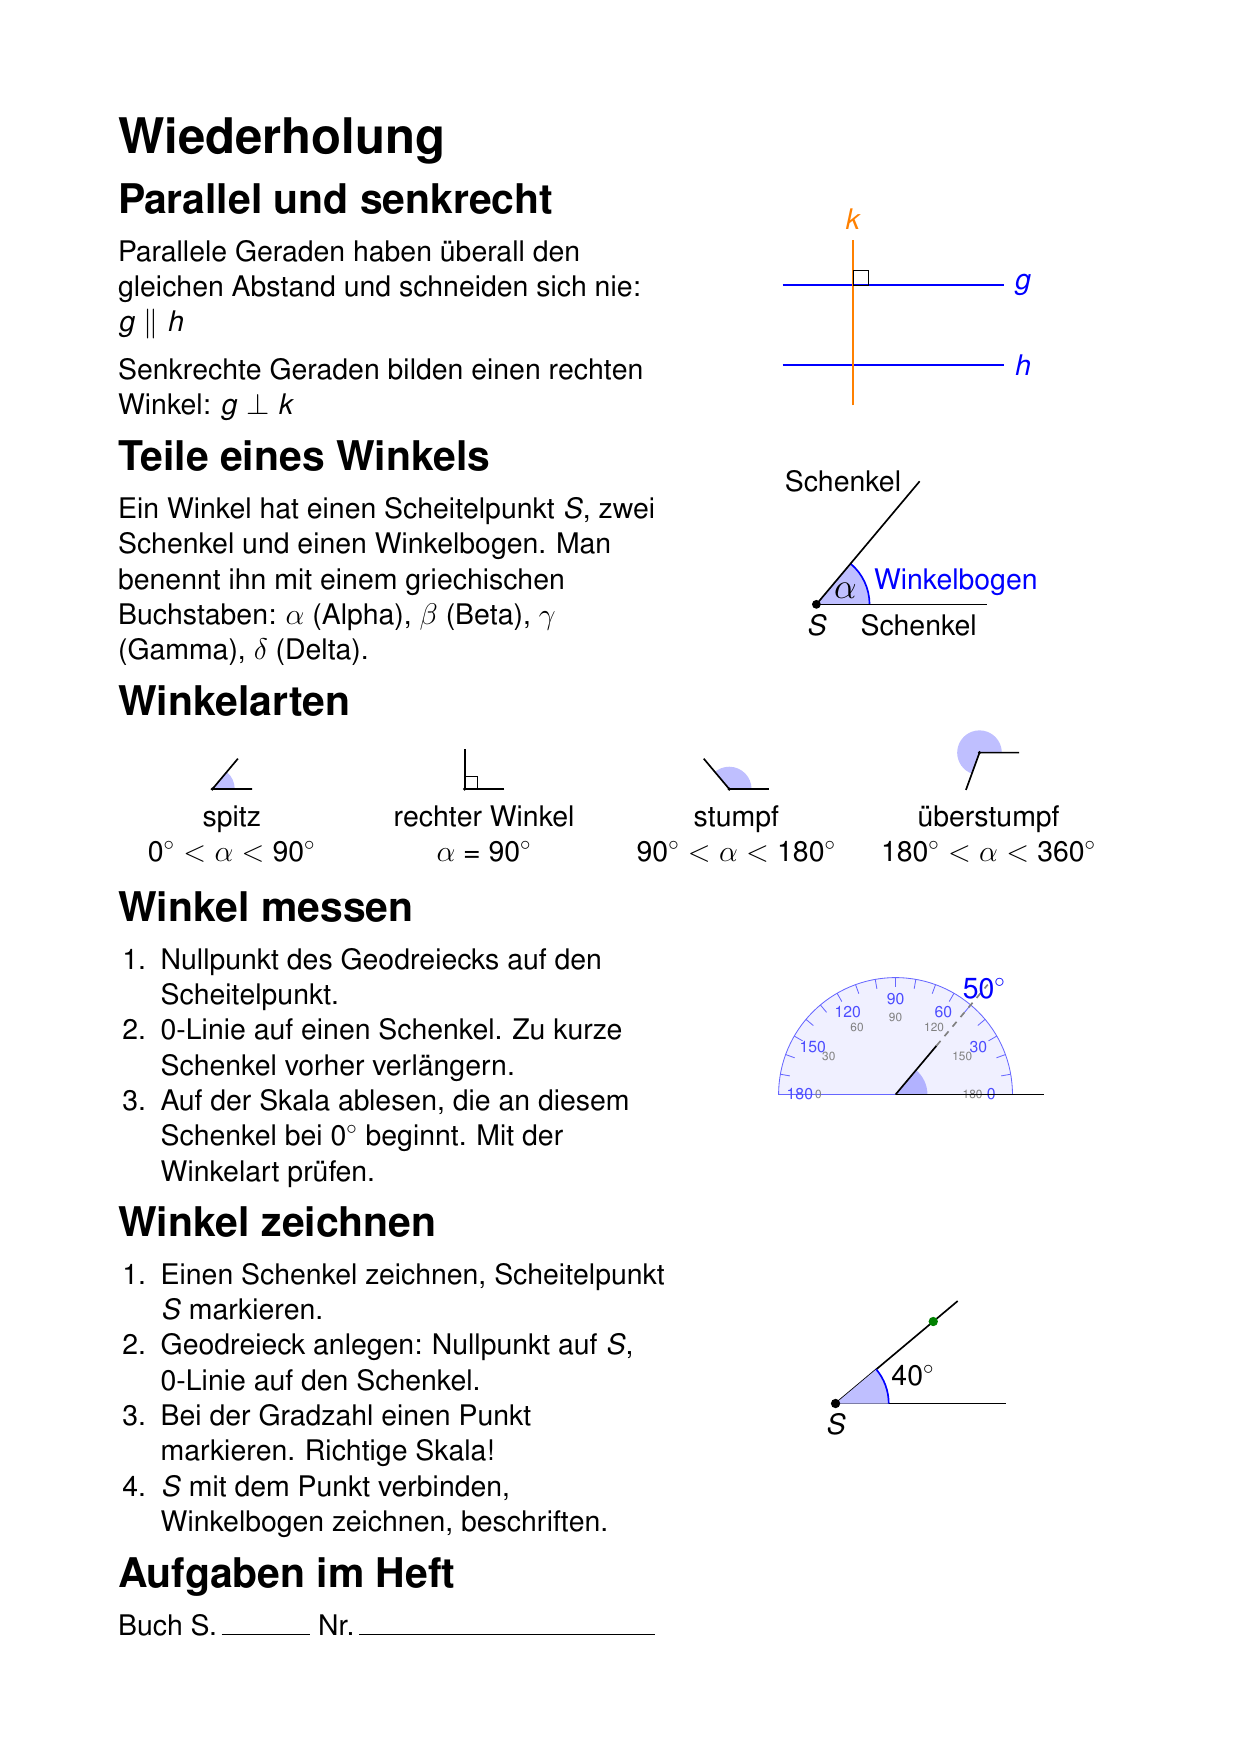
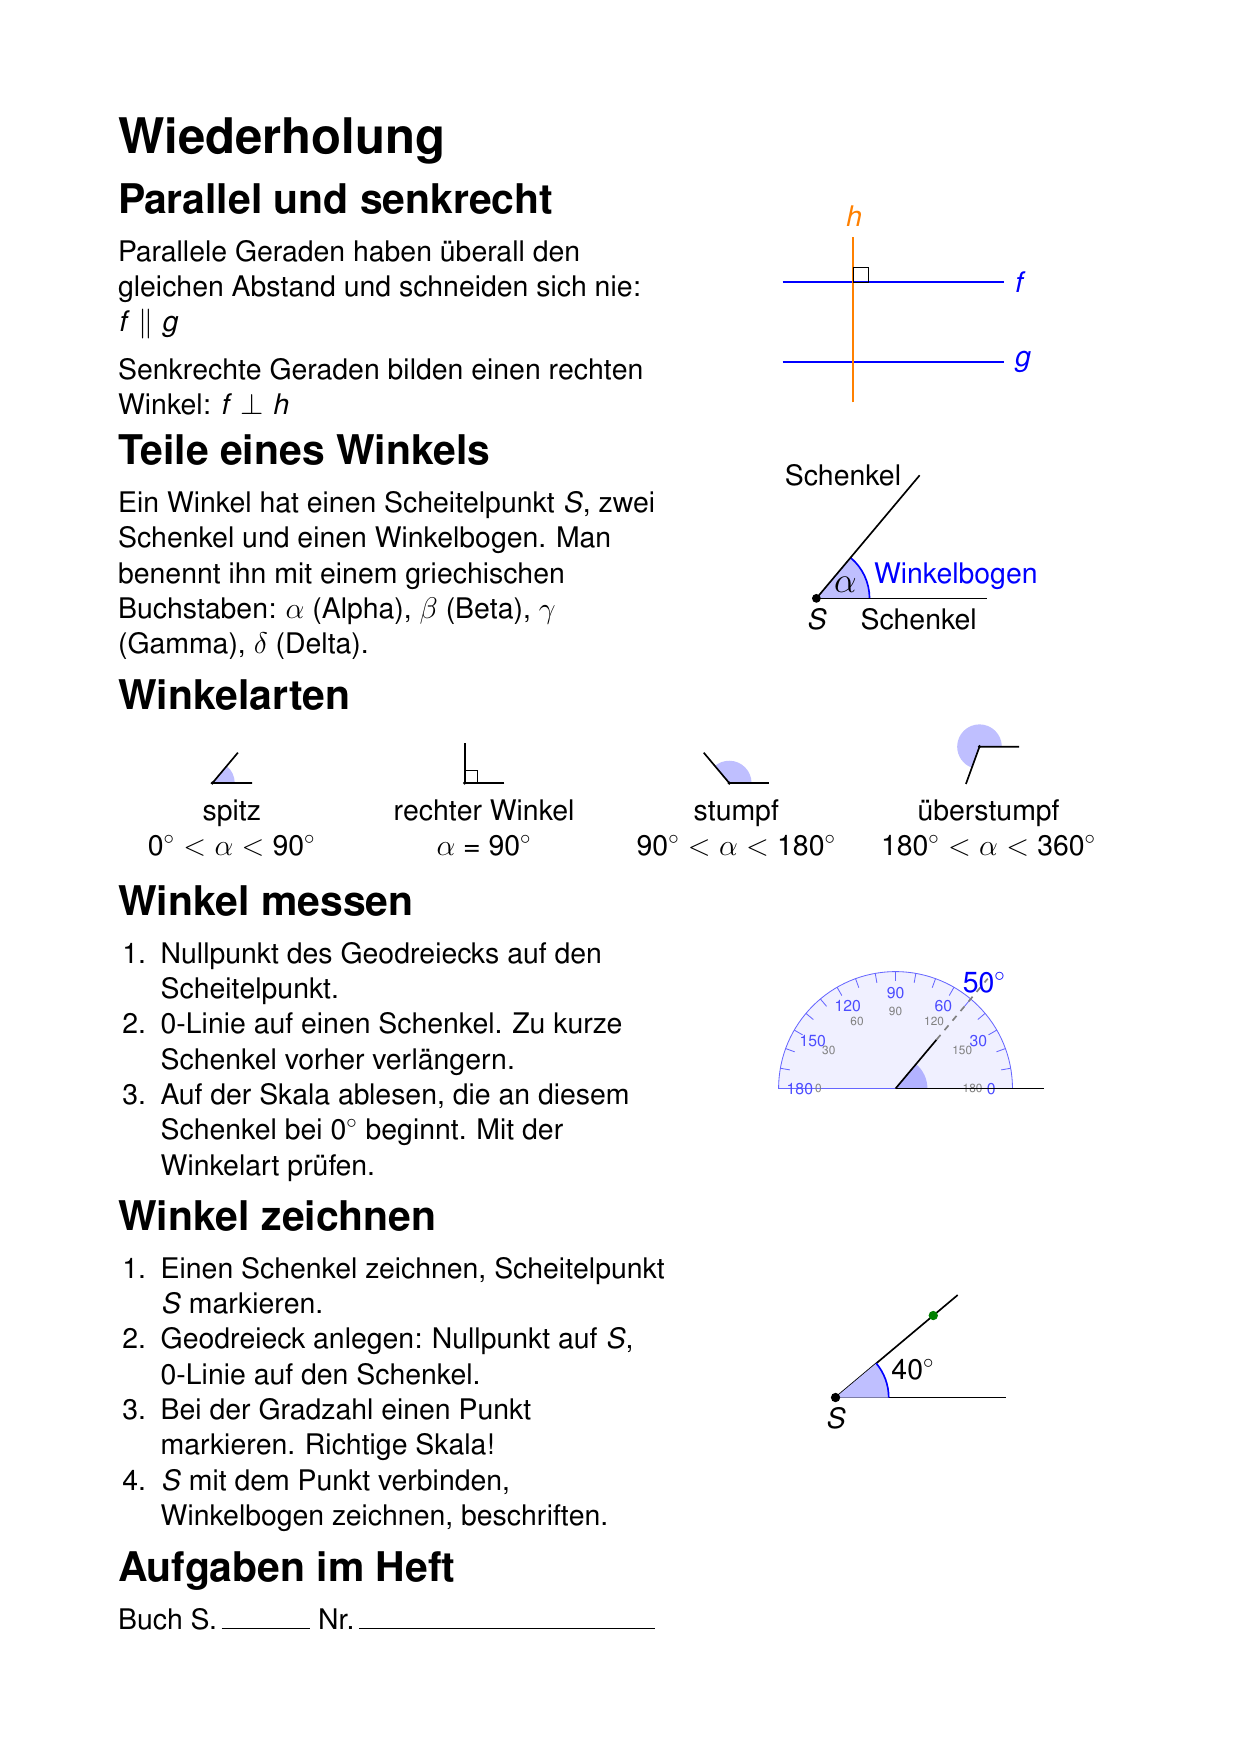
Wiederholung: Geraden heißen f, g, h, j, k (Folie und Arbeitsblatt)
Claude-Session: https://claude.ai/code/session_014D9hKT6ZNfurDZqoqa9agL

diff --git a/wiederholung.html b/wiederholung.html
@@ -198,7 +198,7 @@ function trackFig(show) {
 }
 
 // ---------- Geraden erkennen ----------
-// a ∥ b, c senkrecht zu beiden. d und e sehen fast parallel aus, kommen sich aber nach rechts näher und schneiden sich weit außerhalb.
+// f ∥ g, h senkrecht zu beiden. j und k sehen fast parallel aus, kommen sich aber nach rechts näher und schneiden sich weit außerhalb.
 const yd = x => 320 + 0.025 * (x - 330), ye = x => 440 - 0.025 * (x - 330);
 // Abstand zwischen zwei Punkten übereinander, mit Endstrichen und Länge in cm (50 Bildpunkte = 1 cm)
 const gap = (x, y1, y2) => seg(P(x, y1 + 6), P(x, y2 - 6), 'da') + seg(P(x - 9, y1 + 6), P(x + 9, y1 + 6), 'thin') + seg(P(x - 9, y2 - 6), P(x + 9, y2 - 6), 'thin') + text(P(x + 44, (y1 + y2) / 2), cm(y2 - y1) + ' cm', 'tn');
@@ -206,7 +206,7 @@ function linesFig(show) {
   const k = c => show ? c : 'ln';
   let s = seg(P(60, 120), P(740, 120), k('g1')) + seg(P(60, 220), P(740, 220), k('g1')) + seg(P(200, 50), P(200, 490), k('g2'))
     + seg(P(330, yd(330)), P(740, yd(740)), k('gr')) + seg(P(330, ye(330)), P(740, ye(740)), k('gr'));
-  s += text(P(770, 120), 'a') + text(P(770, 220), 'b') + text(P(228, 62), 'c') + text(P(770, yd(740)), 'd') + text(P(770, ye(740)), 'e');
+  s += text(P(770, 120), 'f') + text(P(770, 220), 'g') + text(P(228, 62), 'h') + text(P(770, yd(740)), 'j') + text(P(770, ye(740)), 'k');
   if (show) s += rmark(P(200, 120), 0, 22) + rmark(P(200, 220), 0, 22) + gap(400, 120, 220) + gap(680, 120, 220) + gap(360, yd(360), ye(360)) + gap(700, yd(700), ye(700));
   return s;
 }
@@ -272,8 +272,8 @@ const STEPS = [
     txt: () => shown ? 'Die Schienen haben überall 1435 mm Abstand, sie sind parallel. Die Schwellen liegen senkrecht zu den Schienen.' : 'Ein Bahngleis von oben. Was fällt an den Schienen und Schwellen auf?',
     eq: () => shown ? 'Schiene 1 ∥ Schiene 2 &nbsp;&nbsp; Schwelle ⊥ Schiene' : '' },
   { t: 'Parallel oder senkrecht?', rv: 1, fig: () => linesFig(shown),
-    txt: () => shown ? 'Parallel heißt: überall gleicher Abstand. d und e kommen sich näher und schneiden sich weiter rechts. Sie sind nicht parallel.' : 'Welche Geraden sind zueinander parallel, welche senkrecht?',
-    eq: () => shown ? 'a ∥ b &nbsp;&nbsp; c ⊥ a &nbsp;&nbsp; c ⊥ b &nbsp;&nbsp; d, e: nicht parallel' : '' },
+    txt: () => shown ? 'Parallel heißt: überall gleicher Abstand. j und k kommen sich näher und schneiden sich weiter rechts. Sie sind nicht parallel.' : 'Welche Geraden sind zueinander parallel, welche senkrecht?',
+    eq: () => shown ? 'f ∥ g &nbsp;&nbsp; h ⊥ f &nbsp;&nbsp; h ⊥ g &nbsp;&nbsp; j, k: nicht parallel' : '' },
   { t: 'Teile eines Winkels', rv: 1, c: LS, enter: () => { lw = 110; }, drag: laptopDrag, fig: () => laptopFig(shown),
     txt: () => shown ? 'Jeder Winkel hat einen Scheitelpunkt, zwei Schenkel und einen Winkelbogen.' : 'Klappst du einen Laptop auf, entsteht ein Winkel α. Wie heißen seine Teile?',
     eq: () => shown ? `α = ${lw}°` : '' },

diff --git a/index.html b/index.html
@@ -43,7 +43,7 @@ html.fs #fs .fo{display:inline}
 <section><h2>Mittelsenkrechte und Winkelhalbierende</h2><div class="row"><a class="go" href="mittelsenkrechte-winkelhalbierende.html">Einführung</a><a href="ab.html?n=ab-mittelsenkrechte-winkelhalbierende">Arbeitsblatt</a></div></section>
 <section><h2>Umkreis und Inkreis</h2><div class="row"><a class="go" href="umkreis-inkreis.html">Einführung</a><a href="ab.html?n=ab-umkreis-inkreis">Arbeitsblatt</a></div></section>
 <section><h2>Dreiecke konstruieren: SSS, SWS, WSW</h2><div class="row"><a class="go" href="dreiecke-konstruieren.html">Einführung</a><a href="ab.html?n=ab-dreiecke-konstruieren">Arbeitsblatt</a></div></section>
-<div class="fassung"><span>Fassung <span id="stand">13.11.2026 22:05</span></span><button id="aktualisieren" type="button">Neueste Fassung laden</button><span id="fassung-status"></span></div>
+<div class="fassung"><span>Fassung <span id="stand">13.11.2026 22:08</span></span><button id="aktualisieren" type="button">Neueste Fassung laden</button><span id="fassung-status"></span></div>
 <script>
 // Vollbild: Knopf oder Taste F. Nach einem Seitenwechsel holt der erste Tipp das Vollbild zurück.
 (() => {

diff --git a/sw.js b/sw.js
@@ -1,5 +1,5 @@
 // Eigener Cache-Präfix, damit andere Werkzeuge unter derselben Adresse unberührt bleiben.
-const CACHE = 'plenum-3206f7f8';
+const CACHE = 'plenum-399f4746';
 // Alles, was beim ersten Aufruf in den Speicher kommt.
 const FILES = [
   './',
